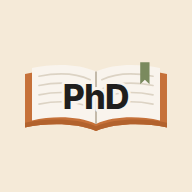
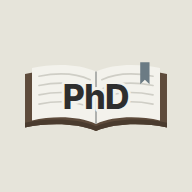
앱 색을 차분한 뉴트럴 팔레트로 + 어울리는 다크 모드
- 라이트: 아이보리 바탕, 차콜 글자, 어스 브라운 주 버튼(기록), 슬레이트 보조(계획), 포그 그레이 선
- 다크: 차콜 바탕 + 아이보리 글자, 갈색·슬레이트는 어두운 바탕에서 읽히게 밝힘
- 카테고리 7색은 채도를 낮춰 팔레트에 맞춤 (R-C1 순서 규칙은 그대로)
- 로고·앱 아이콘·주소창 색도 같은 팔레트로
- 하루 점수 진한 칸 글자 색을 테마별로 (다크에서 4점 칸 대비)
- 오늘 탭: 늦게 온 다시 읽기가 방금 칠한 시간표를 덮지 않게 (R-S5, R-D2 저장 경합)

Claude-Session: https://claude.ai/code/session_017Zp8nw1iM3YJAxrmwCH4VP

Changed region(s): [[0.125, 0.375, 0.875, 0.6875], [0.7188, 0.3125, 0.7812, 0.4375]]

diff --git a/src/styles/theme.css b/src/styles/theme.css
@@ -4,70 +4,74 @@
    - 중립·강조 단계는 뒤집는다 (100 = 카드보다 살짝 밝은 면, 900 = 가장 밝은 글자)
    - 카테고리 색: bg = 어두운 색조 면, ink = 밝은 글자, dot = 칠하기용 중간 밝기 */
 
-/* 카테고리 7색 (SPEC 6장) */
+/* 카테고리 7색 (SPEC 6장). 차분한 뉴트럴 팔레트에 맞춰 채도를 낮췄다 (2026-10-02) */
 :root {
   /* 시트·팝업 뒤 어둡게 */
-  --scrim: color-mix(in oklch, #201e1d 32%, transparent);
-  --cat-red-bg: oklch(0.9 0.055 25); --cat-red-ink: oklch(0.42 0.11 25); --cat-red-dot: oklch(0.7 0.13 25);
-  --cat-orange-bg: oklch(0.91 0.06 60); --cat-orange-ink: oklch(0.44 0.1 55); --cat-orange-dot: oklch(0.74 0.13 60);
-  --cat-yellow-bg: oklch(0.93 0.07 95); --cat-yellow-ink: oklch(0.44 0.09 85); --cat-yellow-dot: oklch(0.82 0.13 92);
-  --cat-green-bg: oklch(0.91 0.06 145); --cat-green-ink: oklch(0.4 0.08 145); --cat-green-dot: oklch(0.72 0.12 145);
-  --cat-blue-bg: oklch(0.91 0.045 245); --cat-blue-ink: oklch(0.4 0.09 250); --cat-blue-dot: oklch(0.7 0.1 245);
-  --cat-purple-bg: oklch(0.9 0.05 300); --cat-purple-ink: oklch(0.42 0.1 300); --cat-purple-dot: oklch(0.7 0.11 300);
-  --cat-pink-bg: oklch(0.91 0.05 350); --cat-pink-ink: oklch(0.43 0.1 350); --cat-pink-dot: oklch(0.74 0.11 350);
+  --scrim: color-mix(in oklch, #2e2e2e 34%, transparent);
+  /* 하루 점수 4~5점 칸 글자 (진한 칸 위) */
+  --score-fg-hi: #f3f2ec;
+  --cat-red-bg: oklch(0.885 0.035 25); --cat-red-ink: oklch(0.42 0.08 25); --cat-red-dot: oklch(0.66 0.1 25);
+  --cat-orange-bg: oklch(0.89 0.038 60); --cat-orange-ink: oklch(0.43 0.07 55); --cat-orange-dot: oklch(0.7 0.095 60);
+  --cat-yellow-bg: oklch(0.91 0.045 95); --cat-yellow-ink: oklch(0.43 0.065 85); --cat-yellow-dot: oklch(0.78 0.1 90);
+  --cat-green-bg: oklch(0.89 0.035 145); --cat-green-ink: oklch(0.4 0.06 145); --cat-green-dot: oklch(0.66 0.08 145);
+  --cat-blue-bg: oklch(0.89 0.028 245); --cat-blue-ink: oklch(0.4 0.065 250); --cat-blue-dot: oklch(0.65 0.075 245);
+  --cat-purple-bg: oklch(0.885 0.032 300); --cat-purple-ink: oklch(0.42 0.07 300); --cat-purple-dot: oklch(0.66 0.08 300);
+  --cat-pink-bg: oklch(0.89 0.032 350); --cat-pink-ink: oklch(0.43 0.07 350); --cat-pink-dot: oklch(0.7 0.08 350);
 }
 
+/* 다크: 차콜 바탕 + 아이보리 글자, 갈색·슬레이트는 밝게 */
 :root[data-theme="dark"] {
   color-scheme: dark;
   --scrim: rgb(0 0 0 / 0.55);
-  --color-bg: #1b1916;
-  --color-surface: #262320;
-  --color-text: #f1e8da;
-  --color-accent: #d9814a;
-  --color-accent-2: #93a476;
-  --color-divider: color-mix(in srgb, #f1e8da 16%, transparent);
+  --score-fg-hi: #1f2020;
+  --color-bg: #1f2020;
+  --color-surface: #2e2e2e;
+  --color-text: #e6e4da;
+  --color-accent: #a58a72;
+  --color-accent-2: #8a9aa3;
+  --color-divider: color-mix(in srgb, #e6e4da 16%, transparent);
 
-  --color-neutral-100: #322e29;
-  --color-neutral-200: #3b3631;
-  --color-neutral-300: #49433c;
-  --color-neutral-400: #5f584f;
-  --color-neutral-500: #7b7367;
-  --color-neutral-600: #9a9184;
-  --color-neutral-700: #b7ae9f;
-  --color-neutral-800: #d4cbbd;
-  --color-neutral-900: #ece4d7;
+  --color-neutral-100: #363737;
+  --color-neutral-200: #3f403f;
+  --color-neutral-300: #4c4d4c;
+  --color-neutral-400: #626462;
+  --color-neutral-500: #7d807d;
+  --color-neutral-600: #9a9d9a;
+  --color-neutral-700: #b6b8b3;
+  --color-neutral-800: #d0cfc8;
+  --color-neutral-900: #e6e4da;
 
-  --color-accent-100: #2f2118;
-  --color-accent-200: #3e2a1b;
-  --color-accent-300: #58361e;
-  --color-accent-400: #7b4925;
-  --color-accent-500: #a65f30;
-  --color-accent-600: #c4743f;
-  --color-accent-700: #e0975f;
-  --color-accent-800: #f0b58a;
-  --color-accent-900: #fad6bd;
+  --color-accent-100: #2c2622;
+  --color-accent-200: #3a3029;
+  --color-accent-300: #4e4034;
+  --color-accent-400: #6a5645;
+  --color-accent-500: #8a7059;
+  --color-accent-600: #b59a82;
+  --color-accent-700: #c6ad96;
+  --color-accent-800: #d8c5b2;
+  --color-accent-900: #eadbcc;
 
-  --color-accent-2-100: #20271a;
-  --color-accent-2-200: #2a3320;
-  --color-accent-2-300: #38432a;
-  --color-accent-2-400: #4d5b39;
-  --color-accent-2-500: #66784b;
-  --color-accent-2-600: #83966a;
-  --color-accent-2-700: #a2b386;
-  --color-accent-2-800: #c1d0a6;
-  --color-accent-2-900: #dde8c8;
+  --color-accent-2-100: #222729;
+  --color-accent-2-200: #2b3236;
+  --color-accent-2-300: #374147;
+  --color-accent-2-400: #4a5860;
+  --color-accent-2-500: #62727b;
+  --color-accent-2-600: #7b8b94;
+  --color-accent-2-700: #a0aeb6;
+  --color-accent-2-800: #bdc8ce;
+  --color-accent-2-900: #dce3e7;
 
   --shadow-sm: 0 1px 2px rgb(0 0 0 / 0.35);
   --shadow-md: 0 3px 10px rgb(0 0 0 / 0.4);
-  --shadow-lg: 0 12px 32px rgb(0 0 0 / 0.5), 0 0 0 1px color-mix(in srgb, #f1e8da 8%, transparent);
+  --shadow-lg: 0 12px 32px rgb(0 0 0 / 0.5), 0 0 0 1px color-mix(in srgb, #e6e4da 8%, transparent);
 
-  --cat-red-bg: oklch(0.33 0.045 25); --cat-red-ink: oklch(0.87 0.07 25); --cat-red-dot: oklch(0.7 0.12 25);
-  --cat-orange-bg: oklch(0.33 0.045 60); --cat-orange-ink: oklch(0.87 0.07 55); --cat-orange-dot: oklch(0.72 0.12 60);
-  --cat-yellow-bg: oklch(0.33 0.045 95); --cat-yellow-ink: oklch(0.87 0.07 90); --cat-yellow-dot: oklch(0.78 0.12 92);
-  --cat-green-bg: oklch(0.33 0.045 145); --cat-green-ink: oklch(0.87 0.07 145); --cat-green-dot: oklch(0.7 0.12 145);
-  --cat-blue-bg: oklch(0.33 0.045 245); --cat-blue-ink: oklch(0.87 0.07 250); --cat-blue-dot: oklch(0.7 0.12 245);
-  --cat-purple-bg: oklch(0.33 0.045 300); --cat-purple-ink: oklch(0.87 0.07 300); --cat-purple-dot: oklch(0.7 0.12 300);
-  --cat-pink-bg: oklch(0.33 0.045 350); --cat-pink-ink: oklch(0.87 0.07 350); --cat-pink-dot: oklch(0.72 0.12 350);
+  --cat-red-bg: oklch(0.34 0.03 25); --cat-red-ink: oklch(0.86 0.05 25); --cat-red-dot: oklch(0.68 0.09 25);
+  --cat-orange-bg: oklch(0.34 0.03 60); --cat-orange-ink: oklch(0.86 0.05 55); --cat-orange-dot: oklch(0.7 0.085 60);
+  --cat-yellow-bg: oklch(0.34 0.032 95); --cat-yellow-ink: oklch(0.87 0.055 90); --cat-yellow-dot: oklch(0.76 0.09 92);
+  --cat-green-bg: oklch(0.34 0.03 145); --cat-green-ink: oklch(0.86 0.05 145); --cat-green-dot: oklch(0.68 0.08 145);
+  --cat-blue-bg: oklch(0.34 0.028 245); --cat-blue-ink: oklch(0.86 0.045 250); --cat-blue-dot: oklch(0.68 0.075 245);
+  --cat-purple-bg: oklch(0.34 0.03 300); --cat-purple-ink: oklch(0.86 0.05 300); --cat-purple-dot: oklch(0.68 0.08 300);
+  --cat-pink-bg: oklch(0.34 0.03 350); --cat-pink-ink: oklch(0.86 0.05 350); --cat-pink-dot: oklch(0.7 0.08 350);
 }
 
 /* 다크에서 뒤집으면 안 되는 곳 */

diff --git a/src/styles/organic.css b/src/styles/organic.css
@@ -1,44 +1,45 @@
 /* Organic — design-system tokens and component classes. This file is the source of truth for the system's look; retune it here and see readme.md. */
 
 :root {
-  --color-bg: #f5ead8;
-  --color-surface: #ebddc5;
-  --color-text: #201e1d;
-  --color-accent: #c67139;
-  --color-accent-2: #7a8a5e;
-  --color-divider: color-mix(in srgb, #201e1d 16%, transparent);
+  /* 차분한 뉴트럴 팔레트 (2026-10-02 기획 요청): Ivory Mist #E6E4DA · Charcoal #2E2E2E ·
+     Earth Brown #5E4B3B · Slate Blue-Grey #6B7B84 · Fog Grey #A9ACA9 */
+  --color-bg: #e6e4da;
+  --color-surface: #d9d7cc;
+  --color-text: #2e2e2e;
+  --color-accent: #5e4b3b;
+  --color-accent-2: #6b7b84;
+  --color-divider: color-mix(in srgb, #2e2e2e 16%, transparent);
 
-  /* Tonal ramps — generated in OKLCH on one shared lightness scale, so the
-     same step of any role matches the others in visual value. */
-  --color-neutral-100: #f9f4ed;
-  --color-neutral-200: #eee7db;
-  --color-neutral-300: #dcd3c4;
-  --color-neutral-400: #c0b6a5;
-  --color-neutral-500: #a19786;
-  --color-neutral-600: #82796a;
-  --color-neutral-700: #645c50;
-  --color-neutral-800: #474238;
-  --color-neutral-900: #2e2b25;
+  /* 단계: 100 = 가장 밝은 면, 900 = 가장 진한 글자 */
+  --color-neutral-100: #f3f2ec;
+  --color-neutral-200: #dfddd3;
+  --color-neutral-300: #c8c8c1;
+  --color-neutral-400: #a9aca9;
+  --color-neutral-500: #8d908d;
+  --color-neutral-600: #737673;
+  --color-neutral-700: #5a5c5a;
+  --color-neutral-800: #424342;
+  --color-neutral-900: #2e2e2e;
 
-  --color-accent-100: #fff2eb;
-  --color-accent-200: #ffe1d0;
-  --color-accent-300: #ffc6a5;
-  --color-accent-400: #f6a06b;
-  --color-accent-500: #d67f48;
-  --color-accent-600: #b2622d;
-  --color-accent-700: #8c491a;
-  --color-accent-800: #643312;
-  --color-accent-900: #402310;
+  --color-accent-100: #f3eee8;
+  --color-accent-200: #e8dfd5;
+  --color-accent-300: #d6c8b9;
+  --color-accent-400: #bba691;
+  --color-accent-500: #957d67;
+  --color-accent-600: #6e5848;
+  --color-accent-700: #4e3d2f;
+  --color-accent-800: #3d2f24;
+  --color-accent-900: #2b211a;
 
-  --color-accent-2-100: #f0fae1;
-  --color-accent-2-200: #e1eecc;
-  --color-accent-2-300: #ccdbb2;
-  --color-accent-2-400: #aebf92;
-  --color-accent-2-500: #8fa073;
-  --color-accent-2-600: #728157;
-  --color-accent-2-700: #56633f;
-  --color-accent-2-800: #3d472b;
-  --color-accent-2-900: #272e1b;
+  --color-accent-2-100: #edf0f1;
+  --color-accent-2-200: #dce2e5;
+  --color-accent-2-300: #c3ccd1;
+  --color-accent-2-400: #a0aeb5;
+  --color-accent-2-500: #82919a;
+  --color-accent-2-600: #6b7b84;
+  --color-accent-2-700: #56646c;
+  --color-accent-2-800: #414c52;
+  --color-accent-2-900: #2d353a;
 
   --font-heading: "Pretendard Variable", Pretendard, system-ui, sans-serif;
   --font-heading-weight: 800;
@@ -57,9 +58,9 @@
 
   /* Elevation — derived from the ground: soft ink-tinted shadows on a
      light theme, a hairline edge + ambient darkness on a dark one. */
-  --shadow-sm: 0 1px 2px color-mix(in srgb, #2e2b25 14%, transparent);
-  --shadow-md: 0 3px 10px color-mix(in srgb, #2e2b25 16%, transparent);
-  --shadow-lg: 0 12px 32px color-mix(in srgb, #2e2b25 22%, transparent);
+  --shadow-sm: 0 1px 2px color-mix(in srgb, #2e2e2e 14%, transparent);
+  --shadow-md: 0 3px 10px color-mix(in srgb, #2e2e2e 16%, transparent);
+  --shadow-lg: 0 12px 32px color-mix(in srgb, #2e2e2e 22%, transparent);
 }
 
 body {

diff --git a/src/auth/AuthScreen.tsx b/src/auth/AuthScreen.tsx
@@ -49,9 +49,9 @@ function AuthLayout({ step, onBack, children }: { step?: number; onBack?: () => 
   return (
     <div style={{ minHeight: '100dvh', display: 'flex', flexWrap: 'wrap', gap: 14, padding: 14, boxSizing: 'border-box' }}>
       <div style={{ flex: '1 1 440px', minHeight: 560, background: 'var(--color-accent-2-200)', color: 'var(--color-accent-2-900)', borderRadius: 40, position: 'relative', overflow: 'hidden', padding: '44px 48px', display: 'flex', flexDirection: 'column', justifyContent: 'space-between', boxSizing: 'border-box' }}>
-        <span style={{ position: 'absolute', right: -90, bottom: -110, width: 380, height: 380, borderRadius: '50%', background: 'var(--color-accent-300)' }} />
+        <span style={{ position: 'absolute', right: -90, bottom: -110, width: 380, height: 380, borderRadius: '50%', background: 'var(--color-neutral-100)' }} />
         <span style={{ position: 'absolute', right: 190, bottom: 170, width: 120, height: 120, borderRadius: '50%', background: 'var(--color-accent-2-400)' }} />
-        <span style={{ position: 'absolute', right: 70, top: 90, width: 64, height: 64, borderRadius: '50%', background: 'oklch(0.85 0.1 85)' }} />
+        <span style={{ position: 'absolute', right: 70, top: 90, width: 64, height: 64, borderRadius: '50%', background: 'var(--color-accent-300)' }} />
         <span style={{ position: 'relative', alignSelf: 'flex-start' }}><Logo height={76} /></span>
         <div style={{ position: 'relative', display: 'flex', flexDirection: 'column', gap: 14, maxWidth: 440 }}>
           <h1 style={{ margin: 0, fontSize: 60, lineHeight: 1.02 }}>Plan Higher Dream</h1>
@@ -74,9 +74,9 @@ export function Landing() {
   return (
     <div style={{ minHeight: '100dvh', display: 'flex', flexDirection: 'column', gap: 24, padding: 'max(12px, env(safe-area-inset-top)) 12px max(28px, env(safe-area-inset-bottom))', boxSizing: 'border-box' }}>
       <div style={{ flex: 1, minHeight: 440, position: 'relative', overflow: 'hidden', background: 'var(--color-accent-2-200)', color: 'var(--color-accent-2-900)', borderRadius: 40, padding: '28px 18px 34px', display: 'flex', flexDirection: 'column', justifyContent: 'space-between' }}>
-        <span aria-hidden="true" style={{ position: 'absolute', right: -90, bottom: -130, width: 330, height: 330, borderRadius: '50%', background: 'var(--color-accent-300)' }} />
+        <span aria-hidden="true" style={{ position: 'absolute', right: -90, bottom: -130, width: 330, height: 330, borderRadius: '50%', background: 'var(--color-neutral-100)' }} />
         <span aria-hidden="true" style={{ position: 'absolute', left: '37%', bottom: 190, width: 92, height: 92, borderRadius: '50%', background: 'var(--color-accent-2-400)' }} />
-        <span aria-hidden="true" style={{ position: 'absolute', right: 46, top: 112, width: 52, height: 52, borderRadius: '50%', background: 'oklch(0.85 0.1 85)' }} />
+        <span aria-hidden="true" style={{ position: 'absolute', right: 46, top: 112, width: 52, height: 52, borderRadius: '50%', background: 'var(--color-accent-300)' }} />
         <span style={{ position: 'relative', alignSelf: 'flex-start' }}><Logo height={60} /></span>
         <div style={{ position: 'relative', display: 'flex', flexDirection: 'column', gap: 12, padding: '0 4px' }}>
           <h1 style={{ margin: 0, fontSize: 46, lineHeight: 1.02 }}>Plan Higher Dream</h1>

diff --git a/src/mobile/useDay.ts b/src/mobile/useDay.ts
@@ -1,4 +1,4 @@
-import { useCallback, useEffect, useMemo, useState } from 'react';
+import { useCallback, useEffect, useMemo, useRef, useState } from 'react';
 import { supabase } from '../lib/supabase';
 import { errorText } from '../lib/errors';
 import { useAccount } from '../account/AccountProvider';
@@ -22,13 +22,18 @@ export function useDay(day: DayKey, today: DayKey) {
     else setTasks(data as TaskRow[]);
   }, [toast]);
 
+  // 시간표를 고친 횟수. 고치기 전에 시작한 다시 읽기가 늦게 와서 방금 칠한 것을 덮지 않게 한다
+  const edits = useRef(0);
+  const noteEdit = useCallback(() => { edits.current++; }, []);
+
   const loadDay = useCallback(async () => {
+    const v = edits.current;
     const [b, j] = await Promise.all([
       supabase.from('time_blocks').select('id, date, layer, start_slot, end_slot, task_id, daily_keyword_id, label, block_key').eq('date', day),
       supabase.from('day_journals').select('id, date, score, reason, thanks, memo').eq('date', day).maybeSingle(),
     ]);
     if (b.error || j.error) return toast(errorText(b.error ?? j.error));
-    setBlocks(b.data as BlockRow[]);
+    if (edits.current === v) setBlocks(b.data as BlockRow[]);
     setJournal(j.data as Journal | null);
   }, [day, toast]);
 
@@ -101,6 +106,7 @@ export function useDay(day: DayKey, today: DayKey) {
     const { error } = await supabase.rpc('save_day_blocks', { p_date: day, p_layer: layer, p_blocks: rows });
     if (error) {
       toast(errorText(error));
+      edits.current++; // 실패하면 서버 상태로 되돌린다 (이 다시 읽기는 반영)
       await loadDay();
     }
     return !error;
@@ -119,5 +125,5 @@ export function useDay(day: DayKey, today: DayKey) {
     return true;
   };
 
-  return { loaded, tasks, blocks, journal, list, ensureRow, toggleDone, addDirect, removeTask, saveLayer, saveJournal };
+  return { loaded, tasks, blocks, journal, list, ensureRow, toggleDone, addDirect, removeTask, saveLayer, saveJournal, noteEdit };
 }

diff --git a/src/mobile/record/ReviewTab.tsx b/src/mobile/record/ReviewTab.tsx
@@ -165,7 +165,7 @@ function Scores({ period, today, scores, isCurrent }: { period: Period; today: D
               aria-pressed={on}
               aria-label={`${l.md} ${s ? s + '점' : '점수 없음'}`}
               onClick={() => setSel(d)}
-              style={{ height: 38, border: 0, borderRadius: 12, cursor: future ? 'default' : 'pointer', ...BODY, fontSize: 12, background: s ? SCORE_BG[s - 1] : future ? 'transparent' : 'var(--color-bg)', color: s ? (s >= 4 ? 'var(--color-neutral-100)' : 'var(--color-accent-900)') : 'var(--color-neutral-500)', boxShadow: on ? '0 0 0 2px var(--color-surface), 0 0 0 4px var(--color-text)' : d === today ? 'inset 0 0 0 2px var(--color-accent)' : 'none', opacity: future ? 0.5 : 1 }}
+              style={{ height: 38, border: 0, borderRadius: 12, cursor: future ? 'default' : 'pointer', ...BODY, fontSize: 12, background: s ? SCORE_BG[s - 1] : future ? 'transparent' : 'var(--color-bg)', color: s ? (s >= 4 ? 'var(--score-fg-hi)' : 'var(--color-accent-900)') : 'var(--color-neutral-500)', boxShadow: on ? '0 0 0 2px var(--color-surface), 0 0 0 4px var(--color-text)' : d === today ? 'inset 0 0 0 2px var(--color-accent)' : 'none', opacity: future ? 0.5 : 1 }}
             >
               {period.range === 'week' || Number(d.slice(8)) === 1 ? l.md : Number(d.slice(8))}
             </button>

diff --git a/src/desktop/TrackingPage.tsx b/src/desktop/TrackingPage.tsx
@@ -296,7 +296,7 @@ function ScoreCard({ period, today, scores, isCurrent }: { period: Period; today
                 aria-label={`${l.md} ${s ? s + '점' : '점수 없음'}`}
                 data-testid="score-day"
                 onClick={() => setSel(d)}
-                style={{ minHeight: 44, border: 0, borderRadius: 14, cursor: future ? 'default' : 'pointer', font: 'inherit', fontSize: 12.5, fontWeight: 700, background: s ? SCORE_BG[s - 1] : future ? 'transparent' : 'var(--color-neutral-100)', color: s ? (s >= 4 ? 'var(--color-neutral-100)' : 'var(--color-accent-900)') : 'var(--color-neutral-500)', boxShadow: on ? '0 0 0 2px var(--color-surface), 0 0 0 4px var(--color-text)' : 'none' }}
+                style={{ minHeight: 44, border: 0, borderRadius: 14, cursor: future ? 'default' : 'pointer', font: 'inherit', fontSize: 12.5, fontWeight: 700, background: s ? SCORE_BG[s - 1] : future ? 'transparent' : 'var(--color-neutral-100)', color: s ? (s >= 4 ? 'var(--score-fg-hi)' : 'var(--color-accent-900)') : 'var(--color-neutral-500)', boxShadow: on ? '0 0 0 2px var(--color-surface), 0 0 0 4px var(--color-text)' : 'none' }}
               >
                 {period.range === 'week' ? l.md : Number(d.slice(8))}
               </button>

diff --git a/index.html b/index.html
@@ -3,7 +3,7 @@
   <head>
     <meta charset="utf-8" />
     <meta name="viewport" content="width=device-width, initial-scale=1, viewport-fit=cover" />
-    <meta name="theme-color" content="#f5ead8" />
+    <meta name="theme-color" content="#e6e4da" />
     <title>PhD · Plan Higher Dream</title>
     <link rel="icon" href="/icon.svg" type="image/svg+xml" />
     <link rel="manifest" href="/manifest.webmanifest" />
@@ -14,7 +14,7 @@
         var t = localStorage.getItem('phd-theme');
         if (t !== 'light' && t !== 'dark') t = matchMedia('(prefers-color-scheme: dark)').matches ? 'dark' : 'light';
         document.documentElement.dataset.theme = t;
-        if (t === 'dark') document.querySelector('meta[name="theme-color"]').content = '#1b1916';
+        if (t === 'dark') document.querySelector('meta[name="theme-color"]').content = '#1f2020';
       } catch (e) {}
     </script>
   </head>

diff --git a/src/ui/Logo.tsx b/src/ui/Logo.tsx
@@ -1,6 +1,6 @@
 // PhD 로고: 펼친 노트 위에 "PhD" (2026-10-01 기획 요청)
-// 노트 표지 = 주 색, 책장 = 밝은 종이, 줄 = 연한 선, 책갈피 = 보조 색
-export const LOGO_COLORS = { cover: '#c67139', coverDark: '#b2622d', paper: '#f9f4ed', line: '#dcd3c4', spine: '#c0b6a5', ribbon: '#7a8a5e', ink: '#201e1d' };
+// 노트 표지 = 주 색(어스 브라운), 책장 = 밝은 종이, 줄 = 연한 선, 책갈피 = 보조 색(슬레이트)
+export const LOGO_COLORS = { cover: '#5e4b3b', coverDark: '#4a3b2e', paper: '#f3f2ec', line: '#cfcec6', spine: '#a9aca9', ribbon: '#6b7b84', ink: '#2e2e2e' };
 
 /** 노트 그림 (viewBox 0 0 132 72). 글자는 따로 */
 export function NotebookArt() {

diff --git a/src/mobile/record/TodayTab.tsx b/src/mobile/record/TodayTab.tsx
@@ -132,7 +132,10 @@ export default function TodayTab() {
 
   // 시간표 저장은 순서대로 하나씩 (빠르게 이어서 그려도 나중 것이 이긴다)
   const queue = useRef<Promise<unknown>>(Promise.resolve());
-  const enqueue = (fn: () => Promise<unknown>) => (queue.current = queue.current.then(fn, fn));
+  const enqueue = (fn: () => Promise<unknown>) => {
+    D.noteEdit();
+    return (queue.current = queue.current.then(fn, fn));
+  };
   const savePlan = (cells: Cells, info: Record<string, PlanInfo>) =>
     enqueue(() => D.saveLayer('plan', segments(cells).map(s => ({ start: s.start, end: s.end, key: s.value, ...info[s.value] }))));
   const saveActual = (cells: Cells) =>

diff --git a/src/lib/theme.ts b/src/lib/theme.ts
@@ -5,7 +5,7 @@ export type ThemePref = 'system' | 'light' | 'dark';
 export const THEME_OPTIONS: [ThemePref, string][] = [['system', '시스템 설정'], ['light', '라이트'], ['dark', '다크']];
 
 const KEY = 'phd-theme';
-const BG = { light: '#f5ead8', dark: '#1b1916' };
+const BG = { light: '#e6e4da', dark: '#1f2020' };
 const media = () => window.matchMedia('(prefers-color-scheme: dark)');
 
 export function getThemePref(): ThemePref {

diff --git a/docs/PROGRESS.md b/docs/PROGRESS.md
@@ -41,6 +41,7 @@
 - (추가) 화면 테마 시스템 설정/라이트/다크, 기기마다 따로(localStorage `phd-theme`). 데스크톱 = 계정 관리, 휴대폰 = 앱바 톱니 → 설정 시트(테마 + 로그아웃). `index.html`이 첫 그림 전에 `<html data-theme>`을 정함, 카테고리 색은 CSS 변수(`--cat-<색>-bg/ink/dot`)
 - (M6) 데이터 내보내기 = zip 하나에 CSV 7개(꿈·목표·계획표·할일·시간기록·하루기록·회고). 체크리스트 "모바일 첫 기록" = 할 일 체크 또는 실제 칠하기
 - (MV) 모바일 통합: 폭 768px 미만은 새 모바일 앱(계획 + 기록), 넓은 화면은 데스크톱 그대로. 생김새는 목업 `PhD only for Mobile v2`, 기능은 기존. 시작하기는 목업의 5단계. 중간 보고 없이 끝까지 만든 뒤 한 번에 검수 (2026-10-02)
+- (MV 추가) 앱 색을 차분한 뉴트럴 팔레트로: 아이보리(바탕)·차콜(글자)·어스 브라운(주 버튼, 기록)·슬레이트(보조, 계획)·포그 그레이(선). 다크도 같은 팔레트로 다시 맞춤, 로고·앱 아이콘 색도 바꿈 (2026-10-02)
 - (M3 수정) 지난 기간 계획은 무조건 잠금 (R-P12, DB 정책 + 화면). 한 주 시작은 일요일 고정 (R-P13, 계정 설정에서 뺌)
 
 ## 접속 정보
@@ -121,6 +122,8 @@
 - 로그인 전 휴대폰: 첫 화면(`Landing`) → 로그인·가입(맨 위 ‹ + 단계 막대). 데스크톱 로그인 화면은 그대로
 - 휴대폰은 모바일 코드만, PC는 데스크톱 코드만 내려받는다(`lazy`)
 - 밀려 들어오는 화면에 포커스가 가도 바깥이 옆으로 스크롤되지 않게 `.m-clip`(overflow: clip)
+- 오늘 탭: 늦게 도착한 다시 읽기가 방금 칠한 시간표를 덮지 않게(`useDay`의 `noteEdit`) — 예전 하루 플래너에도 있던 드문 경합
+- 색: `organic.css`(라이트)·`theme.css`(다크, 카테고리 색, `--score-fg-hi`), 로고(`Logo.tsx`)·아이콘(`public/icon-*.png`, scratchpad `mkicon.mjs`)·`theme-color`
 - E2E: scratchpad `e2e-mv.mjs`(모바일 102개, 실행하는 날 기준 날짜), 기존 `e2e*.mjs`는 날짜가 박혀 있어 `run-reg.sh`가 사용자 시간대를 바꿔 '오늘'=10.1로 맞춰 돌림
 
 ## 남은 일 / 알려진 제약
